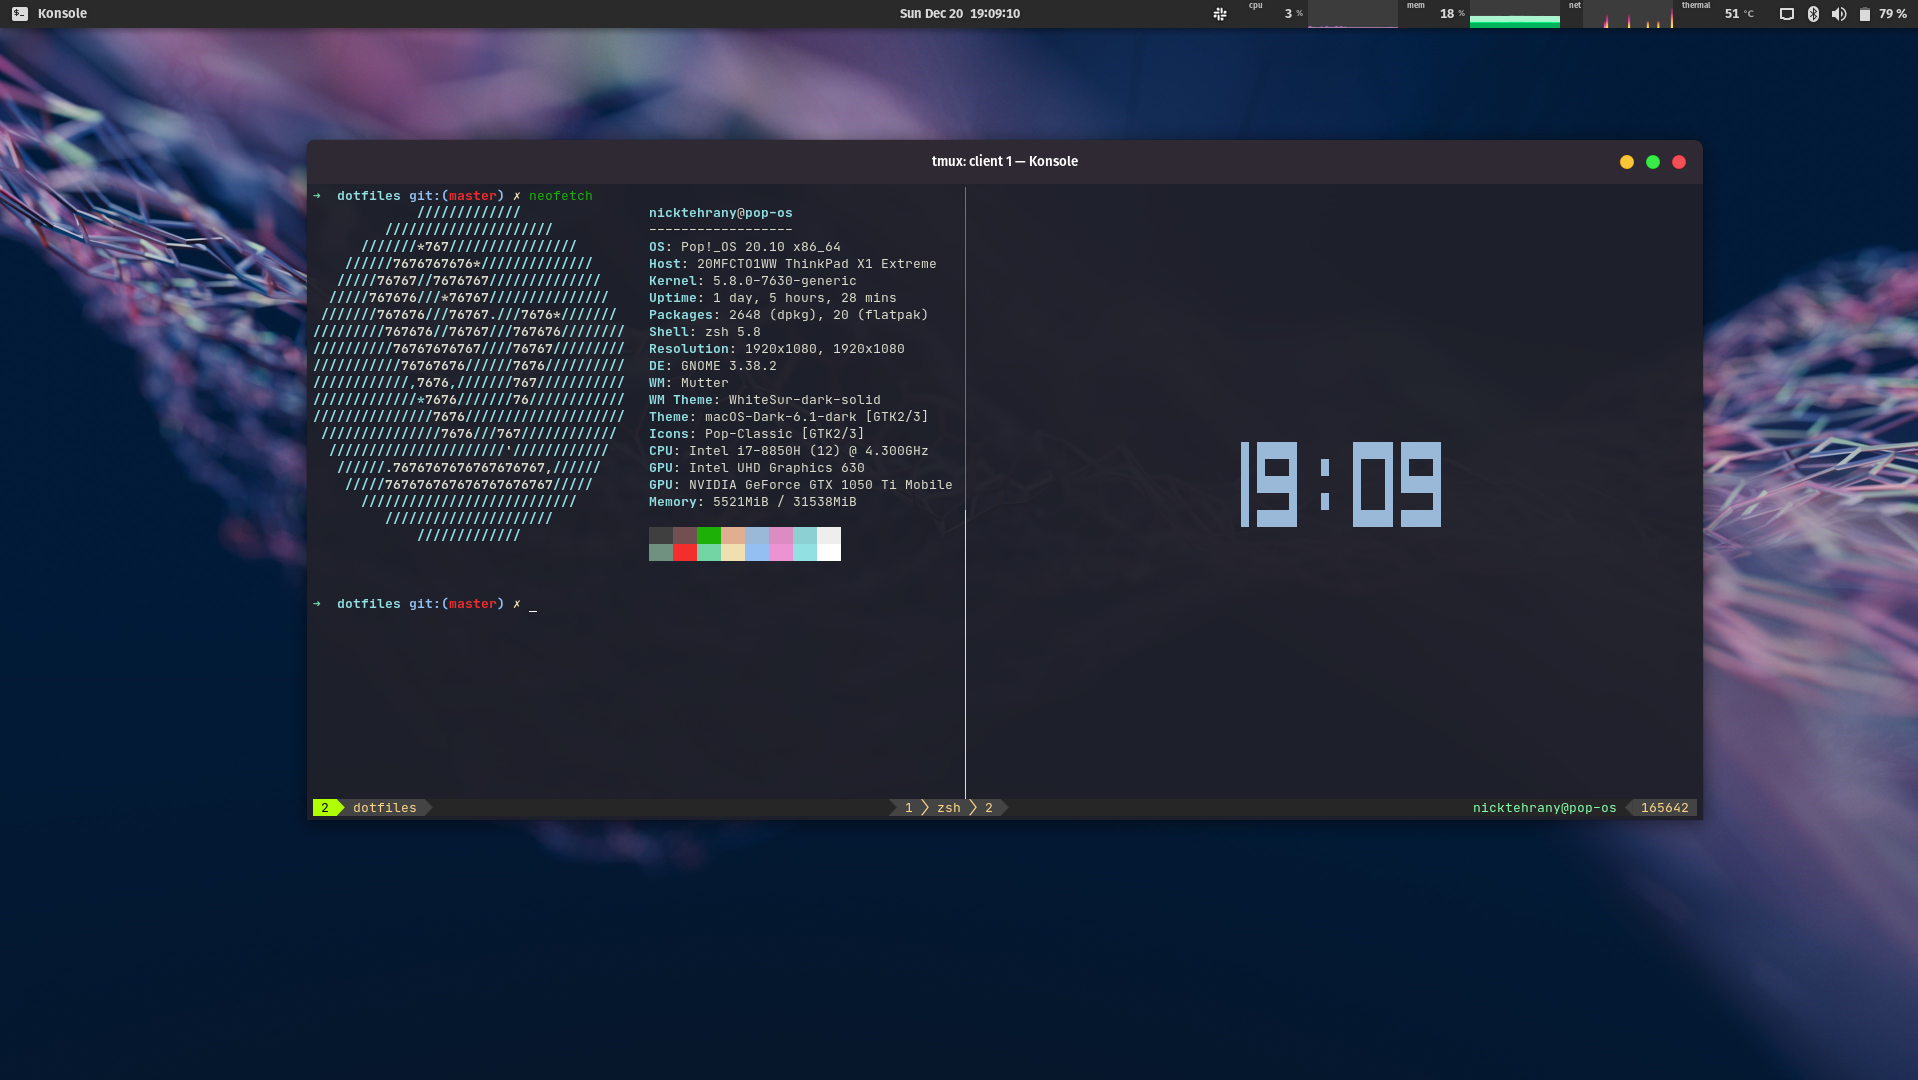
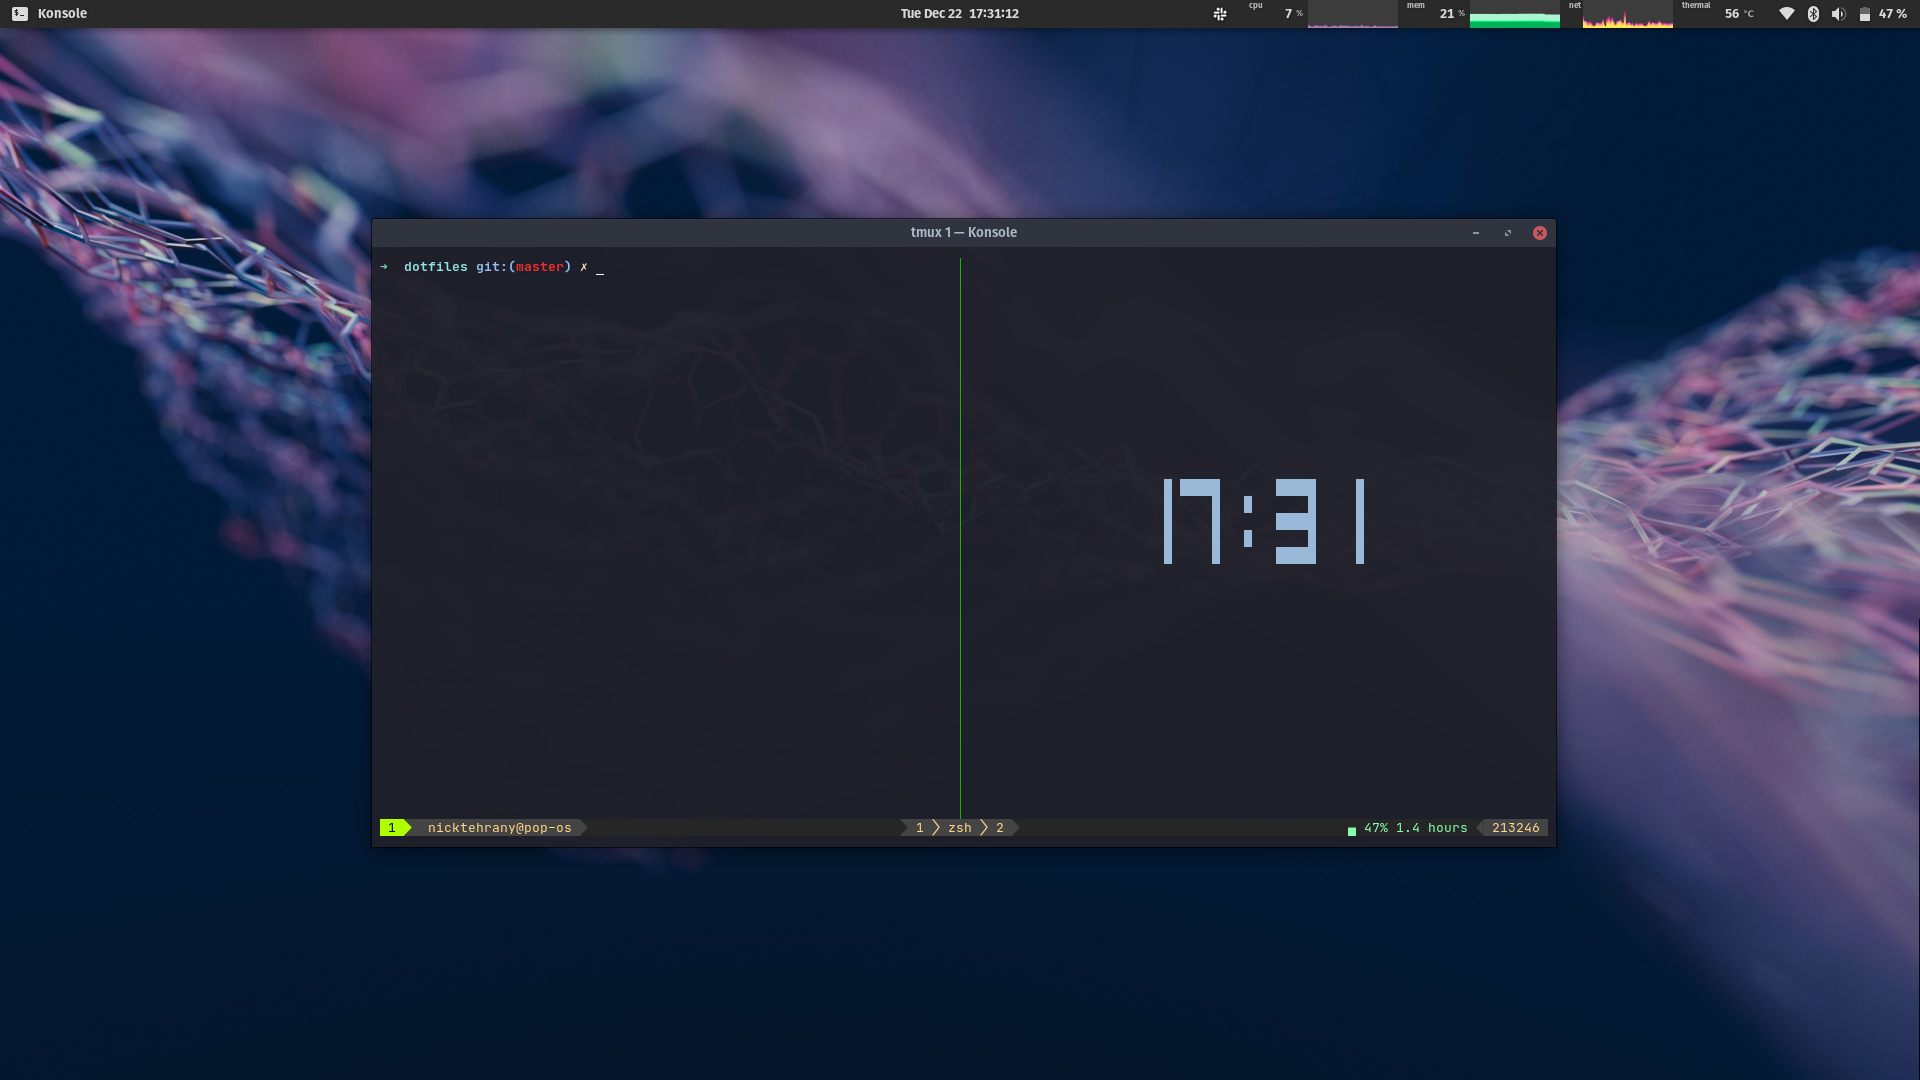
Upgraded tmux conf

diff --git a/README.md b/README.md
@@ -10,7 +10,7 @@ cd dotfiles
 ./install
 ```
 
-Then just open a new terminal. The updating of submodules can sometimes take a couple of seconds.
+Then just open a new terminal. The updating of submodules can sometimes take a couple of seconds.<!--  -->
 
 ## Commands
 
